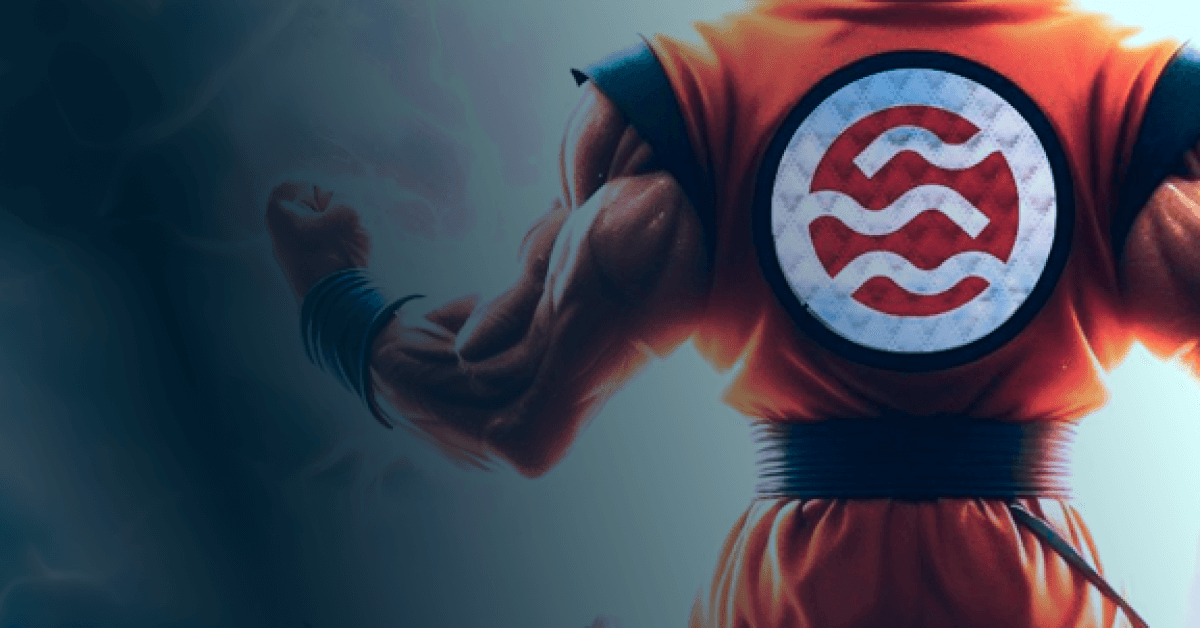
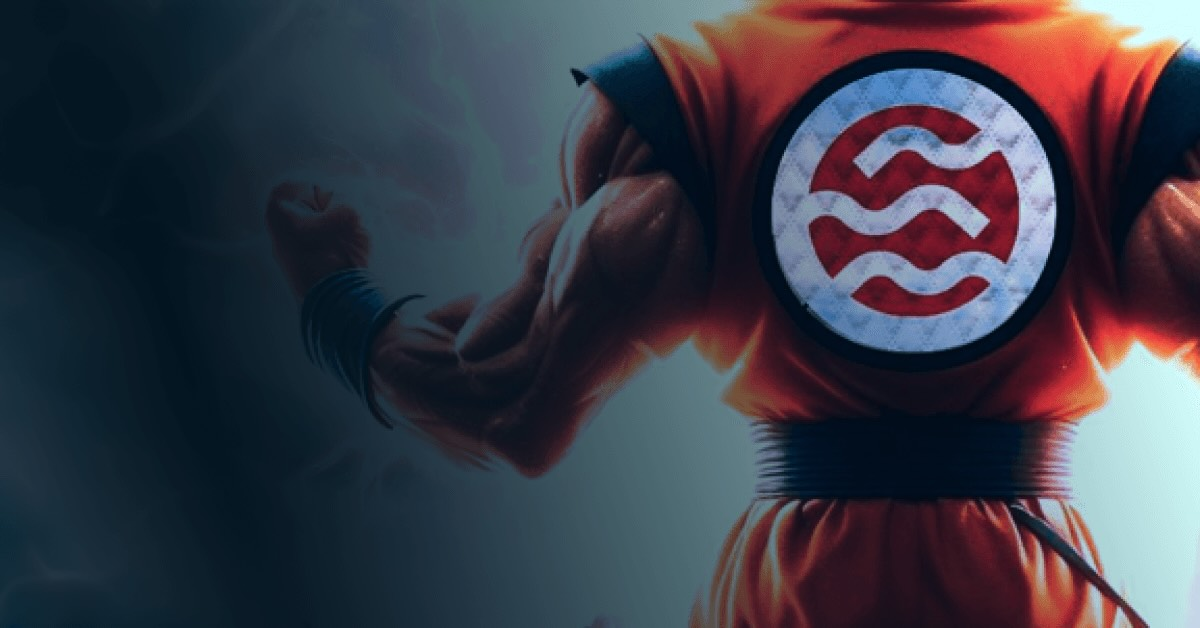
Reduce og default picture to 100kb.

diff --git a/theme.config.tsx b/theme.config.tsx
@@ -130,7 +130,7 @@ const config: DocsThemeConfig = {
       asPath === "/" ||
       (!frontMatter.title && frontMatter.description)
     ) {
-      ogTitle = "AWS for Information within SEI Ecosystem";
+      ogTitle = "Seiyanization | AWS for Information within SEI Ecosystem";
       ogUrl = `${SITE_ROOT}/og/og-default.png`;
     } else if (frontMatter?.ogImage) {
       ogUrl = `${SITE_ROOT}${frontMatter.ogImage}`;
